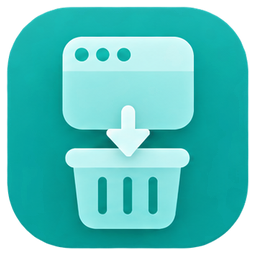
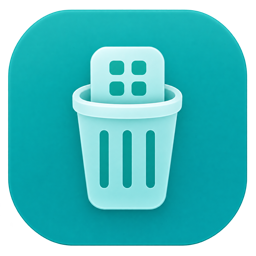
feat: 完善设置侧栏与详细命令图标 (#233)
设置侧栏和新增命令大量共用默认图标，部分功能缺少图片。此改动新增 60 张、重绘 5 张玻璃风格图标，按命令用途补齐搜索和设置中的映射。

- AI 设置显示在内置扩展首位，通过设置页分组属性实现。
- 补齐下载；联系人改蓝底；截图改为屏幕选区；日历移除折角；计算器增加数字显示和四个完整运算符；卸载改为应用半入废纸篓。
- 快捷指令原生图标统一显示边距，Keylane 工具直接读取应用自身图标。
- Theme Studio、切换主题、润色/摘要、听写、剪贴板、备忘录、快捷链接、系统动作和 Keylane 工具采用用途明确的命令图标。
- 对 Raycast 官方 AI 命令准备对应图片，尚未提供的命令图案与剪贴板暂停/清空图案登记为预备资源。详见
docs/ARTWORK.md。

验证通过：同步 dev 036cfd7 后 404 项 Swift 测试、28 项发布脚本测试、模块目录/侧栏分组合成回归；快捷指令与
Keylane 原生图标读取及逻辑尺寸渲染；全部资源映射与文件存在性检查；Apple Development 签名 DMG
的图片清单、元数据、架构和签名验证。

已逐张检查整组图片。日常安装版仍待合并后验收。

diff --git a/Sources/Keylane/ModuleArtwork.swift b/Sources/Keylane/ModuleArtwork.swift
@@ -12,15 +12,16 @@ enum ModuleArtwork {
         "clipboard": "clipboard-history", "calendar": "calendar", "shortcuts": "shortcuts",
         "links": "quicklinks", "script-commands": "script-commands",
         "keylane.calculator": "calculator", "keylane.system": "system-actions",
-        "keylane.app-utilities": "keylane-tools", "keylane.navigation": "navigation",
+        "keylane.app-utilities": "keylane-app", "keylane.navigation": "navigation",
         "keylane.contacts": "contacts", "keylane.dictionary": "dictionary", "keylane.emoji": "emoji",
         "keylane.apple-notes": "notes", "keylane.window-management": "window-management",
         "snippets": "snippets",
         "ai": "ai", "ai-models": "ai-models", "ai-text-commands": "ai-commands",
         "translator": "translator", "dictation": "dictation",
-        "dictation-personalization": "dictation", "dictation-styles": "dictation",
-        "dictation-statistics": "dictation",
+        "dictation-personalization": "dictation-vocabulary", "dictation-styles": "dictation-style",
+        "dictation-statistics": "dictation-statistics",
         "keylane.drop-shelf": "drop-shelf", "keylane.focus": "focus",
+        "keylane.downloads": "downloads", "keylane.themes": "theme-studio",
     ]
 
     private static let modulePages = [
@@ -32,11 +33,74 @@ enum ModuleArtwork {
     ]
 
     private static let commandNames = [
+        "search-downloads": "downloads",
+        "theme-studio": "theme-studio",
+        "switch-theme": "theme-switch",
+        "ai-polish": "ai-polish",
+        "ai-summarize": "ai-summarize",
+        "dictate": "dictation",
+        "dictate-to-note": "dictation-note",
+        "dictate-to-ai": "dictation-ai",
+        "dictation-history": "dictation-history",
+        "dictation-last": "dictation-last",
+        "create-dictation-style": "dictation-style",
+        "add-dictation-word": "dictation-vocabulary",
+        "paste-sequentially": "clipboard-sequence",
+        "reset-paste-sequence": "clipboard-reset",
+        "clipboard-ai-chat": "ai-chat",
+        "clipboard-ai-ask": "ai-chat",
+        "clipboard-ai-summarize": "ai-summarize",
+        "clipboard-ai-translate": "translator",
+        "search-apple-notes": "notes-search",
+        "create-apple-note": "notes-create",
+        "apple-note-ai-chat": "ai-chat",
+        "apple-note-ai-summarize": "ai-summarize",
+        "apple-note-ai-polish": "ai-polish",
+        "apple-note-ai-todos": "notes-todos",
+        "search-quicklinks": "quicklink-search",
+        "manage-quicklinks": "quicklink-search",
+        "create-quicklink": "quicklink-create",
+        "import-quicklinks": "quicklink-import",
+        "export-quicklinks": "quicklink-export",
+        "dismiss-notifications": "notifications-clear",
+        "eject-all-disks": "eject-disks",
+        "empty-trash": "trash-empty",
+        "log-out": "log-out",
+        "next-track": "media-next",
+        "open-trash": "trash-open",
+        "play-pause": "media-play",
+        "previous-track": "media-previous",
+        "quit-all-applications": "quit-apps",
+        "quit-other-applications": "quit-apps",
+        "restart-mac": "restart",
+        "restart-frontmost-application": "restart",
+        "set-output-volume": "volume-set",
+        "show-desktop": "desktop",
+        "show-screen-saver": "screen-saver",
+        "shut-down": "power-off",
+        "toggle-bluetooth": "bluetooth",
+        "toggle-hidden-files": "hidden-files",
+        "toggle-stage-manager": "stage-manager",
+        "toggle-system-appearance": "theme-switch",
+        "volume-down": "volume-down",
+        "volume-up": "volume-up",
+        "capture-keylane-window": "capture-window",
+        "check-extension-updates": "extension-updates",
+        "copy-keylane-logs": "logs-copy",
+        "copy-keylane-version": "version-copy",
+        "import-settings": "import-settings",
+        "open-keylane-website": "website",
+        "open-keylane-github": "source-code",
+        "quit-keylane": "log-out",
+        "reveal-keylane-logs": "logs-folder",
+        "send-keylane-feedback": "feedback",
+        "share-keylane": "share",
+        "keylane-extension-store": "extension-store",
         "settings": "general", "show-onboarding": "launcher",
         "quick-ai": "ai", "ai-chat": "ai-chat", "translate": "translator",
         "ask-files": "ai", "ask-finder": "ai",
         "calculator": "calculator", "calculator-hint": "calculator", "calculator-help": "calculator",
-        "screenshot": "capture-screen", "paste-latest-screenshot": "paste-screenshot", "color": "color-picker", "speak": "read-aloud",
+        "screenshot": "screenshots", "paste-latest-screenshot": "paste-screenshot", "color": "color-picker", "speak": "read-aloud",
         "stop-speaking": "read-aloud", "finder": "file-search",
         "switch-windows": "navigation", "search-menu-items": "navigation",
         "contacts": "contacts", "dictionary": "dictionary", "dictionary-query": "dictionary",
@@ -67,15 +131,34 @@ enum ModuleArtwork {
         if id.rawValue.hasPrefix("quicklink:") { return settings("links") }
         if id.rawValue.hasPrefix("ai-command:") { return image("ai-commands") }
         if id.rawValue.hasPrefix("translate:") { return settings("translator") }
+        if id.rawValue.hasPrefix("set-output-volume-") { return image("volume-set") }
         return settingsPage.flatMap(settings) ?? moduleID.flatMap(module)
+    }
+
+    private static func nativeArtwork(_ icon: NSImage) -> NSImage {
+        // Native app icons include a larger safe area than the module PNGs.
+        NSImage(size: NSSize(width: 128, height: 128), flipped: false) { rect in
+            icon.draw(in: rect.insetBy(dx: -8, dy: -8))
+            return true
+        }
     }
 
     private static func image(_ name: String) -> NSImage? {
         let key = name as NSString
         if let cached = cache.object(forKey: key) { return cached }
+        if name == "keylane-app" {
+            let icon = Bundle.main.url(forResource: "Keylane", withExtension: "icns").flatMap { NSImage(contentsOf: $0) }
+                ?? NSWorkspace.shared.urlForApplication(withBundleIdentifier: "org.keylane.launcher")
+                    .map { NSWorkspace.shared.icon(forFile: $0.path) }
+            guard let icon else { return nil }
+            let artwork = nativeArtwork(icon)
+            cache.setObject(artwork, forKey: key)
+            return artwork
+        }
         if name == "shortcuts",
            let application = NSWorkspace.shared.urlForApplication(withBundleIdentifier: "com.apple.shortcuts") {
-            let artwork = NSWorkspace.shared.icon(forFile: application.path)
+            let icon = NSWorkspace.shared.icon(forFile: application.path)
+            let artwork = nativeArtwork(icon)
             cache.setObject(artwork, forKey: key)
             return artwork
         }

diff --git a/Sources/Keylane/AISettings.swift b/Sources/Keylane/AISettings.swift
@@ -125,10 +125,11 @@ enum AIModule {
                               pages: [AIActionLauncher.page(model: model), QuickAILauncher.page(model: model, controller: quickAI, openChat: { openChat(nil) }),
                                       AITextCommandLauncher.page(model: model, session: textSession, library: library)], settings: [
             .init(id: "ai", title: "AI", symbol: "sparkles", subtitle: "管理 AI 模型、连接与访问凭据。",
-                  order: 8, items: [interactions, fileAccess],
+                  order: 0, items: [interactions, fileAccess],
                   titlebar: .init(title: "启用 AI",
                                   enabled: Binding(get: { configuration.state.enabled }, set: configuration.setEnabled),
                                   updates: configuration.$state.map(\.enabled).removeDuplicates().eraseToAnyPublisher()),
+                  sidebarGroup: .builtInExtension,
                   content: { [weak model] in
                       guard let model else { return AnyView(EmptyView()) }
                       return AnyView(AISettingsHome(model: model))

diff --git a/Tests/Integration/launcher-modules-main.swift b/Tests/Integration/launcher-modules-main.swift
@@ -225,6 +225,12 @@ let calendarSettingsCatalog = SettingsWindowCatalog(pages: [calendarParent, cale
 precondition(calendarSettingsCatalog.sidebarGroups.flatMap(\.pages).map(\.id) == ["calendar"])
 precondition(calendarSettingsCatalog.page("calendar-enabled")?.parentID == "calendar")
 precondition(calendarSettingsCatalog.item(SettingsItem.calendarSelection.id)?.page == "calendar-enabled")
+let aiSidebarPage = LauncherSettingsPage(id: "ai", title: "AI", symbol: "sparkles", subtitle: "", order: 0,
+                                         items: [], sidebarGroup: .builtInExtension, content: { AnyView(EmptyView()) })
+let aiSidebarCatalog = SettingsWindowCatalog(pages: [aiSidebarPage, hostPage], origins: ["ai": .application, "general": .application])
+precondition(aiSidebarCatalog.sidebarGroups.map(\.id) == [.application, .builtInExtension])
+precondition(aiSidebarCatalog.sidebarGroups[0].pages.map(\.id) == ["general"])
+precondition(aiSidebarCatalog.sidebarGroups[1].pages.map(\.id) == ["ai"])
 print("PASS settings catalog lookup, ordering and page ownership")
 
 

diff --git a/Sources/Keylane/LauncherModuleRegistry.swift b/Sources/Keylane/LauncherModuleRegistry.swift
@@ -223,6 +223,7 @@ struct LauncherSettingsPage: Identifiable {
     var toolbarMenu: SettingsToolbarMenu?
     var centeredHeader = false
     var guideURL: URL? = nil
+    var sidebarGroup: LauncherModuleOrigin? = nil
     var loading: AnyPublisher<Bool, Never>?
     let content: () -> AnyView
 }
@@ -256,7 +257,7 @@ struct SettingsWindowCatalog {
     init(pages: [LauncherSettingsPage], origins: [String: LauncherModuleOrigin] = [:]) {
         self.pages = pages
         sidebarGroups = LauncherModuleOrigin.allCases.compactMap { origin in
-            let matches = pages.filter { $0.parentID == nil && (origins[$0.id] ?? .builtInExtension) == origin }
+            let matches = pages.filter { $0.parentID == nil && ($0.sidebarGroup ?? origins[$0.id] ?? .builtInExtension) == origin }
             return matches.isEmpty ? nil : SettingsSidebarGroup(id: origin, pages: matches)
         }
         items = pages.flatMap(\.items)

diff --git a/Sources/Keylane/QuicklinksModule.swift b/Sources/Keylane/QuicklinksModule.swift
@@ -318,6 +318,6 @@ extension Quicklink {
             if $0 { model.disabledCommands.remove(id) }
             else { model.disabledCommands.insert(id) }
         }), perform: perform ?? { model.runCommand(commandID, origin: .menu) },
-           help: template, menu: menu) { SettingsIcon(symbol: "link", artwork: ModuleArtwork.settings("links")) }
+           help: template, menu: menu) { SettingsIcon(symbol: "link", artwork: ModuleArtwork.command(commandID, settingsPage: "links")) }
     }
 }

diff --git a/Sources/Keylane/ClipboardView.swift b/Sources/Keylane/ClipboardView.swift
@@ -379,7 +379,7 @@ struct ClipboardPreferences: View {
                 else { model.disabledCommands.insert(command.rawValue) }
             }
         )) {
-            SettingsIcon(symbol: command.symbol)
+            SettingsIcon(symbol: command.symbol, artwork: ModuleArtwork.command(id, settingsPage: "clipboard"))
         }
     }
 

diff --git a/Tests/ReleaseTests/test_artwork.py b/Tests/ReleaseTests/test_artwork.py
@@ -1,0 +1,22 @@
+"""Keep shipped command and settings artwork references resolvable."""
+from pathlib import Path
+import re
+import unittest
+
+ROOT = Path(__file__).resolve().parents[2]
+
+
+class ArtworkResourcesTests(unittest.TestCase):
+    def test_all_named_artwork_references_have_a_shipped_resource(self):
+        source = (ROOT / 'Sources/Keylane/ModuleArtwork.swift').read_text()
+        names = set()
+        for dictionary in ('settingsNames', 'commandNames'):
+            body = source.split(f'private static let {dictionary} = [', 1)[1].split('\n    ]', 1)[0]
+            names.update(re.findall(r': "([^"]+)"', body))
+        names.update(re.findall(r'image\("([^"]+)"\)', source))
+        # Resolved from the local application bundle at runtime.
+        names.discard('keylane-app')
+        self.assertTrue(names)
+        for name in sorted(names):
+            with self.subTest(resource=name):
+                self.assertTrue((ROOT / 'Resources/ModuleArtwork' / f'{name}.png').is_file())

diff --git a/docs/ARTWORK.md b/docs/ARTWORK.md
@@ -1,0 +1,48 @@
+# 功能与命令图标
+
+本批按 2026-11-21 的设置和命令目录补齐资源，共新增 60 张、重绘 5 张 PNG。图片保存在 `Resources/ModuleArtwork/`，映射由 `Sources/Keylane/ModuleArtwork.swift` 统一维护。设置侧栏、页面标题、命令搜索和通用命令设置行共用映射。
+
+## 设置侧栏
+
+- AI 归入内置扩展，排列在该分组首位。
+- 下载使用文件夹与向下箭头。
+- 联系人使用蓝色背景的联系人卡片。
+- 截图使用屏幕图片与选区角标。
+- 日历使用完整日历页、装订环和日期数字。
+- 计算器使用数字显示及四个带符号的按键。
+- 快捷指令从本机 Shortcuts.app 读取原生图标，统一显示边距。
+- Keylane 工具从应用包读取自身图标，开发运行时可从已注册的应用读取。
+
+## 命令资源
+
+命令图标使用用途明确的主体，按润色、摘要、历史、样式、词汇、搜索、创建、导入、导出及系统动作分别映射。相同操作可跨模块复用对应图案，例如备忘录和剪贴板的摘要使用同一摘要资源。
+
+动态创建的快捷链接继续沿用链接资源，自定义 AI 命令沿用 AI 命令资源。已有系统资源和品牌图标由本机应用提供。
+
+## Raycast AI 命令参考资源
+
+根据官方手册准备下列图案，已存在的 Keylane 命令接入相应映射，其余保留为后续命令资源。
+
+| 用途 | 图案 |
+| --- | --- |
+| 润色 | 编辑笔与星芒 |
+| 摘要 | 文本归纳 |
+| 拼写和语法纠错 | 文档与勾选 |
+| 通俗解释 | 灯泡与文字 |
+| 专业语气 | 文档与领带 |
+| 友好语气 | 微笑对话气泡 |
+| 代码检查 | 代码括号与放大镜 |
+| 网页摘要 | 网页与摘要行 |
+| 网页问答 | 网页与问号气泡 |
+
+参考 [Raycast AI Commands](https://manual.raycast.com/ai/ai-commands)。
+
+## 预备菜单动作资源
+
+剪贴板暂停与清空另有预备资源。当前剪贴板命令中的顺序粘贴、重置粘贴和 AI 操作已接入各自图案，已有操作菜单沿用菜单组件的显示方式。
+
+## 维护与验证
+
+增加命令时，核对主搜索、设置命令行和模块入口的图片。新增 PNG 随打包脚本整体复制，资源引用回归测试检查设置与命令映射指向的文件存在。使用系统原生图标的别名单独在加载器中处理。
+
+本批的逐张预览、构建、测试和打包检查结果记录在关联 PR。真实安装版界面继续按用户反馈验收。

diff --git a/docs/FEATURE-STATUS.md b/docs/FEATURE-STATUS.md
@@ -205,6 +205,10 @@
 
 维护记录：2026-11-21，EXT-01 / PR #223 整合 dev `7f6a01b`（#217），保留 AI 工具运行域引用和功能代次快照，以及目录替换／卸载／重新启用的激活撤销；新增合成工具租约回归，验证结果见目录事务记录。仍待合并及安装版验收。
 
+
+### 2026-11-21 图标与设置分组补齐（本分支）
+
+涉及 BASE-03、BASE-06、BASE-08、APP-02、CLIP-01、SHOT-01、CAL-01、CONTACT-01、NOTE-01、LINK-01、TOOL-01、TOOL-02、TOOL-07、TOOL-08、AI-06、DICT-01、DICT-02、EXTRA-02。AI 设置移入内置扩展首位，补充下载与主题入口，并按命令用途区分图片。图标资源、映射、验证和后续预备资源登记于 [美术资源](ARTWORK.md)。安装版验收随该功能 PR 跟进。
 维护记录：2026-11-21，DICT-01：`fix/openrouter-dictation`（实现 `a8ecc59`）补齐 OpenRouter 专用转写目录、能力元数据、旧缓存自动刷新与 JSON 音频上传，待合并。404 项 Swift、27 项发布脚本、听写及共享 AI 集成、arm64 Release 构建与 Apple Development 签名包校验通过，尚未安装；公开目录经共享运行时和选择器确认 30 个转写模型，未读取用户密钥或发送用户录音；验证边界见 [听写](DICTATION.md)。
 
 维护记录：2026-11-21，AI-13-b / [PR #228](https://github.com/Acckion/Keylane/pull/228)，实现 `9e0c43e`：从 dev `37dac2e` 新建读取增强分支，Office/本机显式 OCR/行级正则共用现有授权、接收方确认与私有续读；保留 #215/#217/#224 行为，414+3 项全量、最终 12 项增强及文本框审查修复后的 66 项定向复验、9 组基础文件集成、签名隔离引用测试及 27 项发行保障检查通过；准确提交与 Checks 见 PR，未安装或调用真实模型。

diff --git a/docs/README.md b/docs/README.md
@@ -6,7 +6,7 @@
 
 - [全仓库功能跟踪与 Raycast 对照](FEATURE-STATUS.md)
 - [开发计划、细项差异与历史进度](TODO.md)
-- [启动器与设置模块架构](LAUNCHER-ARCHITECTURE.md)
+- [启动器与设置模块架构](LAUNCHER-ARCHITECTURE.md) · [功能与命令图标](ARTWORK.md)
 - [构建、CI 与发布](CI-RELEASE.md) · [签名与升级权限](SIGNING.md)
 - [发布说明模板](releases/TEMPLATE.md)
 - [官网维护](WEBSITE.md)
